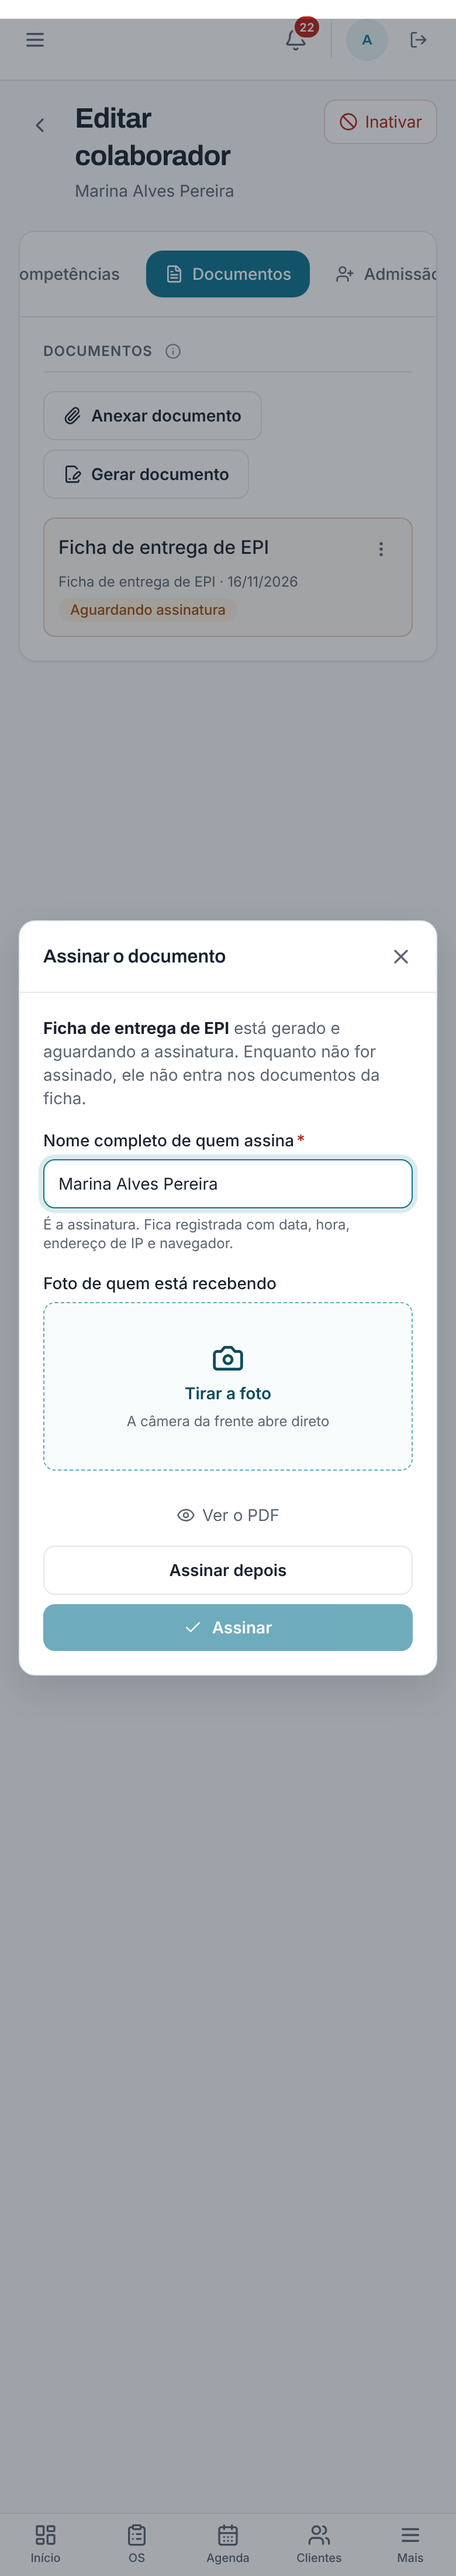
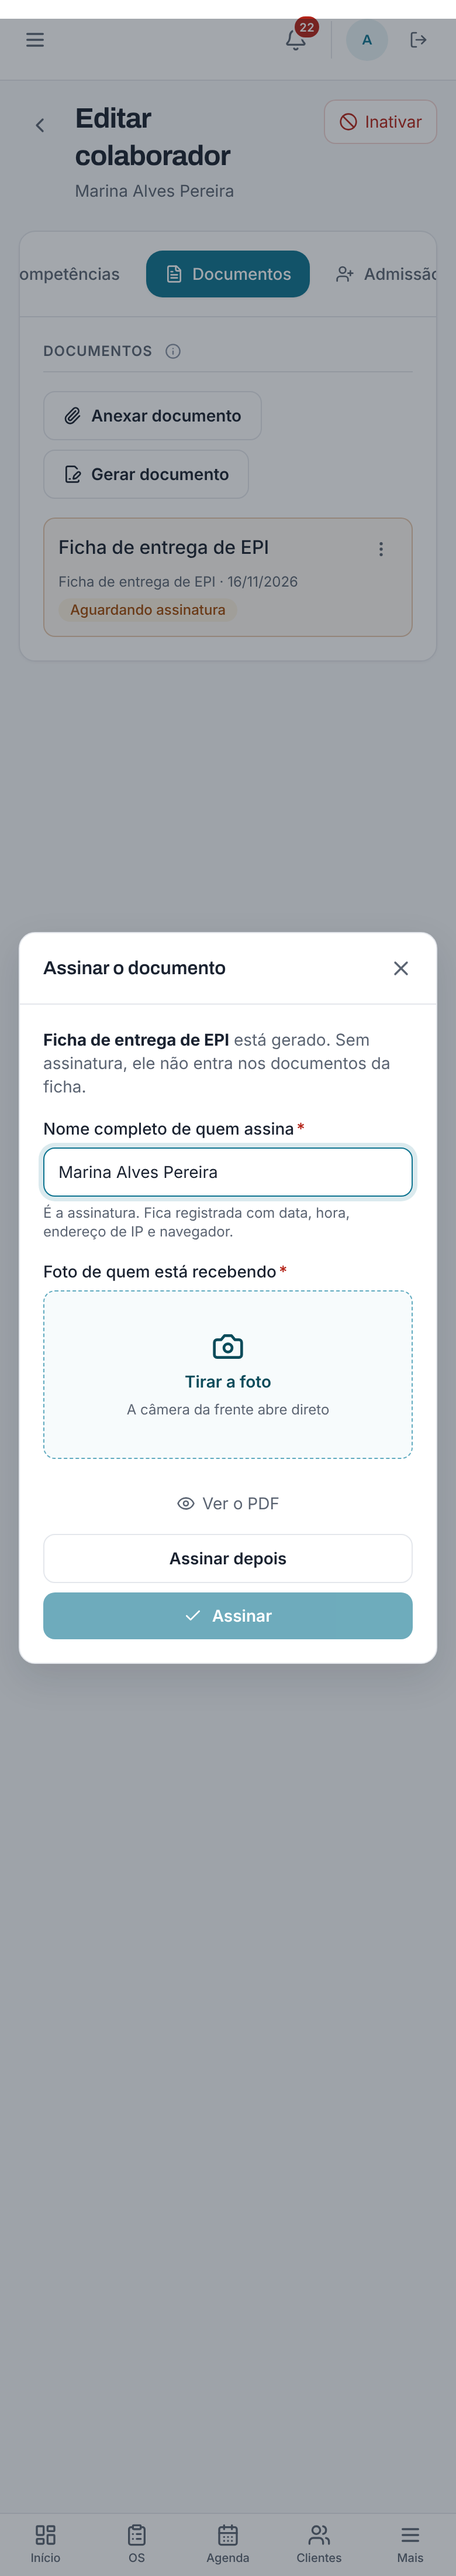
Modelos de documento: o manifesto e as duas quebras intencionais
O ratchet de despoluição pegou três textos meus — corrigi o código, não o
baseline:

- "(você preenche)" nos campos do tipo virou "(perguntado ao gerar)";
- o aviso de modelo inativo e o texto do passo da assinatura passaram do
  limite de instrução inline (110 caracteres) e encurtaram, dizendo a mesma
  coisa.

Duas expectativas atualizadas, com a razão escrita no próprio teste:

- navegacao-configuracoes: a aba Conta agora lista "Modelos de documento"
  ao lado de "Admissão digital";
- documentos-modelos-ui: a asserção cobra a promessa nova do passo da
  assinatura ("Sem assinatura, ele não entra nos documentos da ficha").

E a foto da assinatura ganhou o asterisco de obrigatória, aqui e na
admissão — o botão já ficava travado sem ela, mas a tela não dizia.

Suíte inteira verde (438 arquivos, 6476 testes), typecheck limpo, prints
regravados com os textos finais.

Claude-Session: https://claude.ai/code/session_01NogQSnn1DhMU16avoGcmWJ

Changed region(s): [[0.0308, 0.3425, 0.9538, 0.6539], [0.6769, 0.5293, 0.7077, 0.5605], [0.3077, 0.5293, 0.3385, 0.5605]]

diff --git a/components/colaborador/gerar-documento.tsx b/components/colaborador/gerar-documento.tsx
@@ -188,14 +188,14 @@ export function GerarDocumento({
         {emitido ? (
           <>
             <p className="text-sm text-ink-muted">
-              <strong className="text-ink">{emitido.titulo}</strong> está gerado e aguardando a assinatura.
-              Enquanto não for assinado, ele não entra nos documentos da ficha.
+              <strong className="text-ink">{emitido.titulo}</strong> está gerado. Sem assinatura,
+              ele não entra nos documentos da ficha.
             </p>
             <FormField label="Nome completo de quem assina" required
               hint="É a assinatura. Fica registrada com data, hora, endereço de IP e navegador.">
               <Input value={nome} onChange={(e) => setNome(e.target.value)} caixa="nome" data-assinatura-nome autoComplete="name" />
             </FormField>
-            <CapturaFoto valor={selfie} onValor={setSelfie} onErro={setErro} rotulo="Foto de quem está recebendo" />
+            <CapturaFoto valor={selfie} onValor={setSelfie} onErro={setErro} rotulo="Foto de quem está recebendo" obrigatorio />
             <div className="flex flex-col sm:flex-row gap-2 sm:justify-end pt-1">
               <a href={`/api/documentos-gerados/${emitido.id}/pdf?ver=1`} target="_blank" rel="noopener noreferrer"
                 className="inline-flex items-center justify-center gap-1.5 text-sm text-ink-muted hover:text-ink px-3 py-2" data-ver-previa-pdf>

diff --git a/components/cadastros/editores/editor-modelo-documento.tsx b/components/cadastros/editores/editor-modelo-documento.tsx
@@ -110,7 +110,7 @@ export function EditorModeloDocumento({ item, aberto, onFechar, onSalvo }: Edito
         )}
         {item && item.ativo === false && (
           <p className="text-sm bg-atencao-claro border border-atencao/20 text-atencao-texto rounded-lg px-3 py-2">
-            Modelo inativo: não aparece em “Gerar documento” até ser reativado. Os papéis já gerados continuam como estão.
+            Modelo inativo: não aparece em “Gerar documento”. Os papéis já gerados continuam como estão.
           </p>
         )}
 
@@ -132,7 +132,7 @@ export function EditorModeloDocumento({ item, aberto, onFechar, onSalvo }: Edito
             Campos que o sistema preenche <Dica texto="Clique para inserir no texto. Em verde, os que este modelo já usa." />
           </p>
           <div className="flex flex-wrap gap-1.5" data-campos-modelo>
-            {[...CAMPOS_AUTOMATICOS, ...doTipo.map((c) => ({ id: c.id, rotulo: `${c.rotulo} (você preenche)` }))].map((c) => (
+            {[...CAMPOS_AUTOMATICOS, ...doTipo.map((c) => ({ id: c.id, rotulo: `${c.rotulo} (perguntado ao gerar)` }))].map((c) => (
               <button
                 key={c.id} type="button" onClick={() => inserir(c.id)} title={c.rotulo}
                 data-campo-modelo={c.id} data-usado={usados.has(c.id) ? "sim" : "nao"}

diff --git a/components/ui/captura-foto.tsx b/components/ui/captura-foto.tsx
@@ -17,7 +17,7 @@ export const TAMANHO_MAX_FOTO = 6 * 1024 * 1024;
  */
 export function CapturaFoto({
   valor, onValor, onErro, rotulo = "Foto", ajuda = "A câmera da frente abre direto",
-  tamanhoMax = TAMANHO_MAX_FOTO, marca,
+  tamanhoMax = TAMANHO_MAX_FOTO, marca, obrigatorio = false,
 }: {
   valor: string | null;
   onValor: (dataUrl: string | null) => void;
@@ -28,6 +28,8 @@ export function CapturaFoto({
   tamanhoMax?: number;
   /** Sufixo dos data-atributos, quando há mais de uma captura na mesma tela. */
   marca?: string;
+  /** Marca o rótulo com o asterisco da casa — sem a foto, o botão de assinar fica travado. */
+  obrigatorio?: boolean;
 }) {
   const camera = useRef<HTMLInputElement>(null);
 
@@ -47,7 +49,9 @@ export function CapturaFoto({
 
   return (
     <div>
-      <p className="text-sm font-medium text-ink mb-1.5">{rotulo}</p>
+      <p className="text-sm font-medium text-ink mb-1.5">
+        {rotulo}{obrigatorio && <span className="text-atrasado ml-0.5">*</span>}
+      </p>
       <input
         ref={camera} type="file" accept="image/*" capture="user" className="hidden"
         onChange={pegar} aria-label={rotulo} data-entrada-foto={marca ?? true}

diff --git a/tests/unit/navegacao-configuracoes.test.ts b/tests/unit/navegacao-configuracoes.test.ts
@@ -65,7 +65,9 @@ describe("estrutura: 3 abas com cartões; cada item tem id, tela e a rota antiga
       ["Empresa", ["Dados da empresa", "Preferências", "Numeração de documentos"]],
       // "Admissão digital" entrou aqui na leva da admissão: é configuração de pessoas (contrato,
       // documentos pedidos e orientações do link), atrás da permissão "Admissão digital › gerenciar"
-      ["Acesso e pessoas", ["Usuários", "Perfis de acesso", "Cargos", "Admissão digital"]],
+      // "Modelos de documento" entrou ao lado da Admissão digital: também é configuração de pessoas
+      // (o texto dos papéis que a empresa entrega), atrás de "Documentos do colaborador › gerenciar"
+      ["Acesso e pessoas", ["Usuários", "Perfis de acesso", "Cargos", "Admissão digital", "Modelos de documento"]],
       ["Integrações", ["E-mail transacional", "Portal do cliente", "QR Code"]],
       ["Manutenção de dados", ["Padronização de digitação"]],
     ]);

diff --git a/tests/unit/documentos-modelos-ui.test.ts b/tests/unit/documentos-modelos-ui.test.ts
@@ -246,7 +246,8 @@ describe("Gerar documento: o diálogo", () => {
     expect(chamadas[0].corpo.itens).toEqual([{ descricao: "Luva de vaqueta", ca: "12345", quantidade: 2, entregaEm: expect.any(String) }]);
     // o diálogo virou a assinatura
     expect($("[data-assinar-documento]")).toBeTruthy();
-    expect(corpoTexto()).toContain("aguardando a assinatura");
+    // o texto do passo 2 encurtou (manifesto: instrução inline curta), a promessa é a mesma
+    expect(corpoTexto()).toContain("Sem assinatura, ele não entra nos documentos da ficha");
   });
 
   it("sem nome e foto, o botão de assinar não deixa seguir", async () => {

diff --git a/components/admissao/admissao-publica.tsx b/components/admissao/admissao-publica.tsx
@@ -263,7 +263,7 @@ export function AdmissaoPublicaCliente({ token, inicial }: { token: string; inic
 
                 <CapturaFoto
                   valor={selfie} onValor={setSelfie} onErro={setErro}
-                  rotulo="Foto sua, segurando o documento"
+                  rotulo="Foto sua, segurando o documento" obrigatorio
                 />
 
                 <p className="flex items-start gap-1.5 text-xs text-ink-muted">

diff --git a/docs/modelos-documento.md b/docs/modelos-documento.md
@@ -127,7 +127,75 @@ Apagar o modelo, o usuário que gerou ou o próprio arquivo **não apaga** o reg
 documento existiu (`ON DELETE SET NULL`); apagar a empresa ou o colaborador leva tudo junto
 (`CASCADE`), que é o que já acontece com o resto da ficha.
 
-## 9. Perguntas em aberto
+## 9. As telas (PR2)
+
+O motor do PR1 só ganha valor quando alguém consegue usá-lo sem ler documentação. São três lugares,
+e nenhuma tela nova fora deles.
+
+### Configurações › Modelos de documento
+
+Mora na gaveta de Configurações, aba **Conta**, grupo "Acesso e pessoas", ao lado de Admissão
+digital — atrás de `documentos.gerenciar`. É o kit de cadastros padrão (`CadastroPadrao`), com
+Ativos/Inativos/Todos, busca, Novo modelo, o lápis de editar e o botão de inativar/reativar. Sem
+ação em massa: modelo de documento é um punhado por empresa, e selecionar vários não resolve nada
+(declarar `massa: true` sem registrar a entidade em `lib/acoes-massa/acoes.ts` derruba a lista
+inteira — tem guard puro para isso em `tests/unit/cadastros-registro.test.ts`).
+
+O editor é próprio (`editor-modelo-documento.tsx`), porque o texto com campos pede mais do que um
+formulário genérico:
+
+- **o painel de campos** mostra tudo que o sistema sabe preencher; o que o texto usa fica **verde**,
+  o que sobra fica neutro — dá para escrever o modelo olhando a lista, sem decorar nome de campo;
+- **campo que o sistema não conhece vira aviso** na hora (`{{supervisor}}` → "o sistema não preenche
+  este campo"), e o texto não é tocado: quem escreveu corrige;
+- **a lista de itens acompanha o tipo** — a ficha de EPI sempre tem (não dá para desligar), a
+  advertência nunca tem;
+- gaveta na ficha, validade em dias e "pede assinatura" ficam no mesmo editor, com a explicação ao
+  lado do campo.
+
+### Ficha do colaborador › Documentos
+
+Ao lado de **Anexar documento** nasce **Gerar documento**, atrás de `documentos.criar`. Sem a
+permissão o botão não existe — e a rota recusa de todo jeito. A advertência só aparece no seletor de
+quem tem `documentos.disciplinar`.
+
+O diálogo tem dois passos, e só mostra o segundo quando ele existe:
+
+1. **montar** — modelo, os campos que *aquele* modelo usa (campo de data já nasce com hoje), a
+   tabela de itens quando o tipo tem, e **Ver a prévia**: o texto preenchido de verdade, com a tarja
+   "PRÉVIA — AINDA NÃO ASSINADO" no PDF e **sem gravar nada**;
+2. **assinar** — nome digitado e foto tirada na hora (a mesma `CapturaFoto` da admissão), com o
+   servidor gravando IP, navegador e hora. Dá para fechar e assinar depois: o papel fica aguardando.
+
+### A linha do papel, na mesma lista
+
+O papel gerado não cria uma seção à parte: entra na tabela de Documentos que já existe. Enquanto
+não foi assinado aparece com o selo **Aguardando assinatura** e as ações Baixar (a prévia), Assinar
+e Cancelar. Depois de assinado vira anexo de verdade — com a validade do tipo e a origem **"Gerado
+por modelo"** — e no lugar de "Excluir" oferece **Cancelar**, que pede a razão, tira o anexo da
+ficha e **não apaga o registro**.
+
+### Telas × botões
+
+| Tela | Botão | Permissão |
+| --- | --- | --- |
+| Configurações › Modelos de documento | Novo modelo, Editar, Inativar/Reativar | `documentos.gerenciar` |
+| Ficha › Documentos | Gerar documento | `documentos.criar` |
+| Diálogo de gerar | Ver a prévia, Gerar | `documentos.criar` (advertência: + `disciplinar`) |
+| Diálogo de assinar | Assinar, Assinar depois, Ver o PDF | `documentos.criar` |
+| Linha do papel pendente | Baixar, Assinar, Cancelar | `documentos.criar` |
+| Linha do papel assinado | Baixar, Cancelar | `documentos.criar` |
+
+Prints de desktop e celular em `docs/prints/modelos-documento/`.
+
+### O que os prints acharam (e virou conserto)
+
+Abrir as telas no navegador de verdade achou cinco defeitos que teste de DOM não via: a lista de
+Configurações caindo inteira por causa do `massa: true`; a data digitada entrando crua no texto
+("entrega em 2026-11-17"); a data pré-preenchida em UTC (depois das 21h já mostrava amanhã); o papel
+gerado se apresentando como "Anexado pelo RH"; e a coluna Tipo cortada nos 140px fixos.
+
+## 10. Perguntas em aberto
 
 1. **Qual preset de perfil, além do Administrador, nasce com `documentos.*`?** (A mesma pergunta
    ainda aberta da Admissão digital.)
